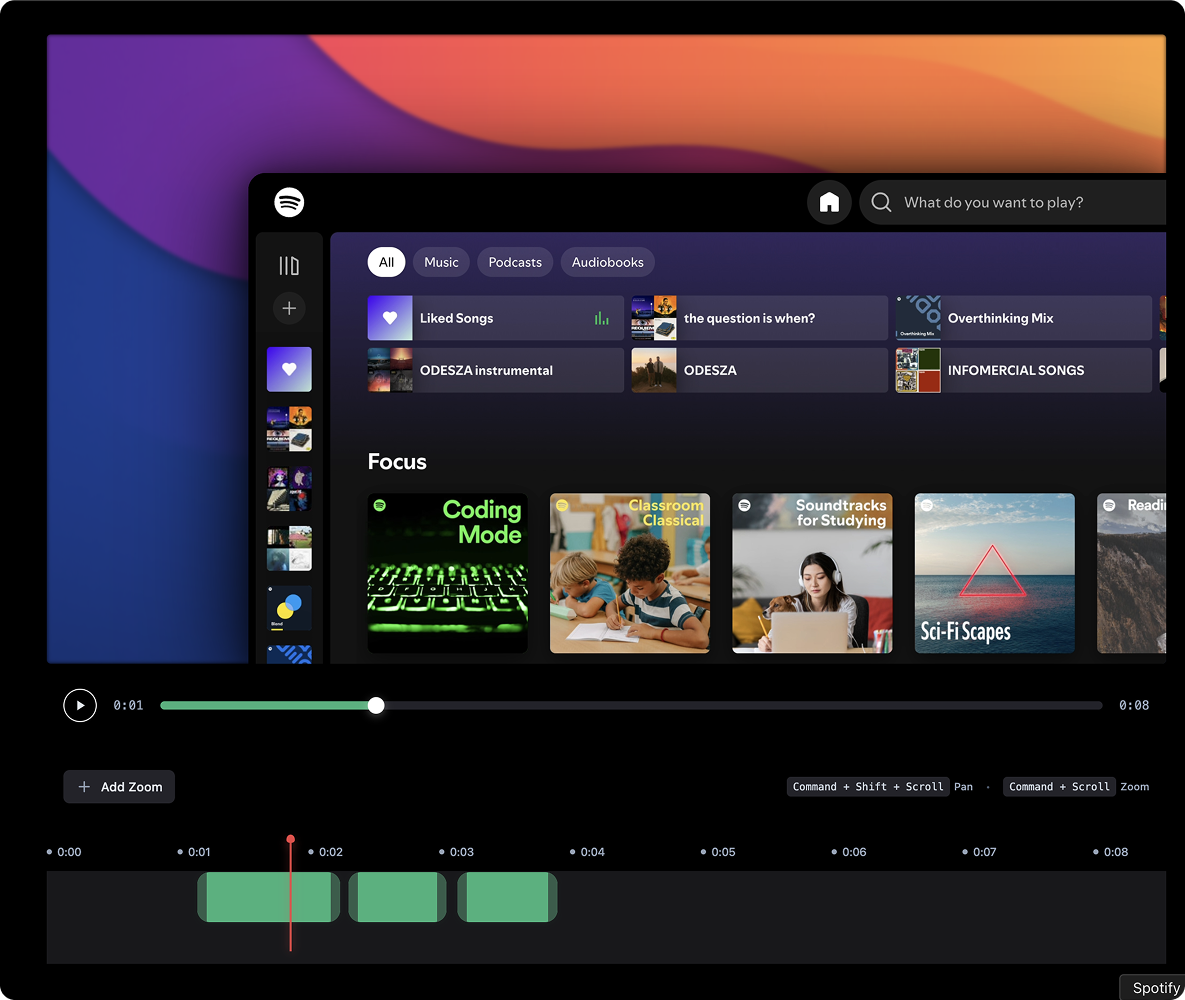
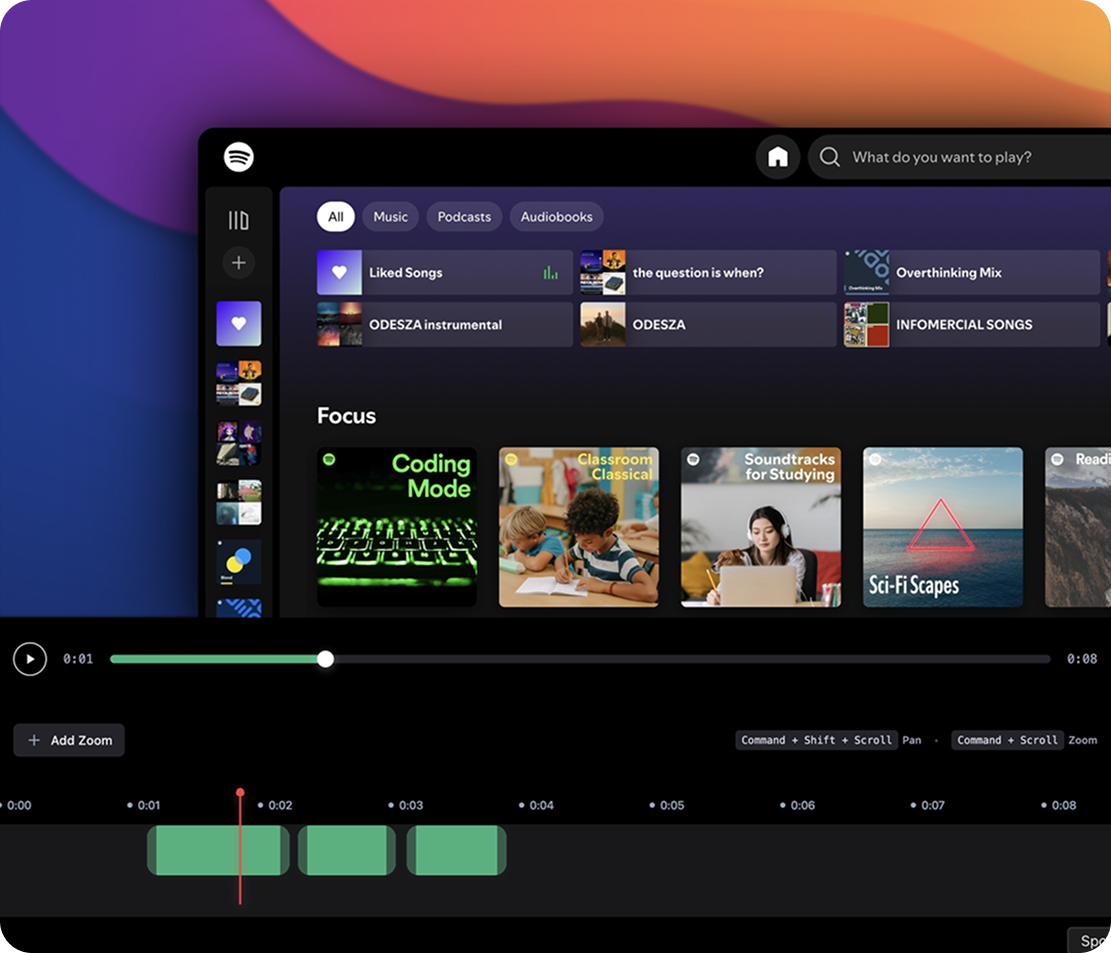
readme update

diff --git a/README.md b/README.md
@@ -1,6 +1,3 @@
-
-
-
 <p align="center">
 	<img src="openscreen.png" alt="OpenScreen Logo" width="64" />
 </p>
@@ -8,23 +5,26 @@
 
 # <p align="center">OpenScreen</p>
 
-<p align="center"><strong>Beautiful screen recordings with zoom animation.<br>Simple, open-source alternative to Screen.studio.</strong></p>
+<p align="center"><strong>OpenScreen is your free, open-source alternative to Screen Studio (sort of).</strong></p>
 
 
 If you don't want to pay $29/month for Screen Studio but want a much simpler version that does what most people seem to need, making beautiful product demos and walkthroughs, here's a free-to-use app for you. OpenScreen does not offer all Screen Studio features, but covers the basics well!
 
+Screen Studio is an awesome product and this is definitely not a 1:1 clone. OpenScreen is a much simpler take, just the basics for folks who want control and don't want to pay. If you need all the fancy features, your best bet is to support Screen Studio (they really do a great job, haha). But if you just want something free (no gotchas) and open, this project does the job!
 
 OpenScreen is 100% free for personal and commercial use. Use it, modify it, distribute it. (Just be cool 😁 and give a shoutout if you feel like it !)
 
 
 
-**⚠ DISCLAIMER: This is very much in <span style="display: inline-block; background: transparent; color: #111; font-size: 0.65em; font-weight: 400; border-radius: 8px; border: 1px solid #111; padding: 0px 5px; margin-right: 2px; vertical-align: middle;">beta</span> and might be buggy here and there (but hope you have a good experience!).**
+**⚠ DISCLAIMER: This is very much in beta and might be buggy here and there (but hope you have a good experience!).**
 
 </p>
 <p align="center">
 	<img src="preview.png" alt="OpenScreen App Preview" style="height: 320px; margin-right: 12px;" />
 	<img src="preview2.png" alt="OpenScreen App Preview 2" style="height: 320px; margin-right: 12px;" />
-	<img src="preview3.png" alt="OpenScreen App Preview 3" style="height: 320px;" />
+	<img src="preview3.png" alt="OpenScreen App Preview 3" style="height: 320px; margin-right: 12px;" />
+	<img src="preview4.png" alt="OpenScreen App Preview 4" style="height: 320px; margin-right: 12px;" />
+	
 </p>
 </p>
 
@@ -39,6 +39,17 @@ OpenScreen is 100% free for personal and commercial use. Use it, modify it, dist
 **Note:**
 - OpenScreen is designed to support both Windows and macOS. We did not use any native APIs specific to one OS, so it should work on both. However, it hasn't been fully tested on Windows yet, if you run into issues, please let me know!
 - After you install the app, you'll need to grant it accessibility and screen recording permissions for it to work properly.
+
+## macOS Installation Instructions
+
+If you encounter issues with macOS Gatekeeper blocking the app (since it does not come with a developer certificate), you can bypass this by running the following command in your terminal after installation:
+
+```bash
+xattr -rd com.apple.quarantine /Applications/Openscreen.app
+```
+
+After running this command, proceed to **System Preferences > Security & Privacy** to grant the necessary permissions for "screen recording" and "accessibility". Once permissions are granted, you can launch the app.
+
 
 **Contribution:**
 Planning to add a contribution guide soon so people can contribute to this repo. Stay tuned!
@@ -60,4 +71,5 @@ Download the latest installer for your platform from the [GitHub Releases](https
 _I'm new to open source, idk what I'm doing lol. If something is wrong please raise an issue 🙏_
 
 ## License
-MIT License: You can use, modify, and distribute this software for any purpose, including commercial use, without restriction. See the LICENSE file for details.
+
+This project is licensed under the [MIT License](./LICENSE). By using this software, you agree that the authors are not liable for any issues, damages, or claims arising from its use.
